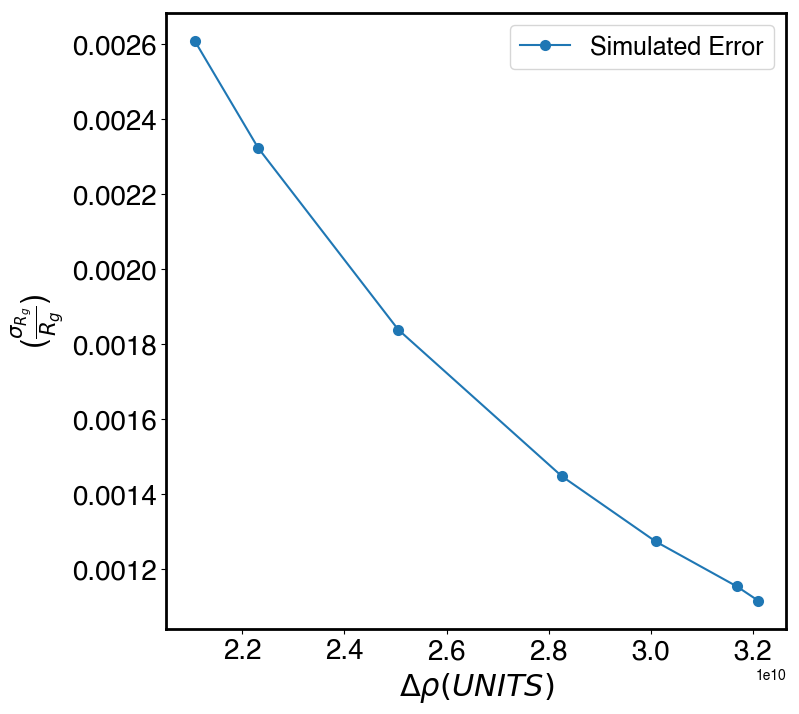
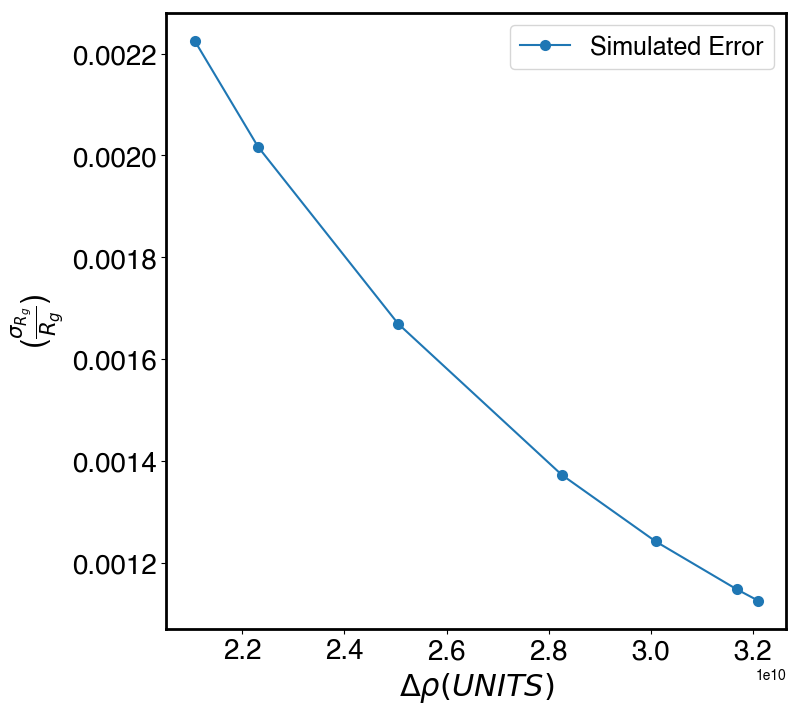
fixed issue with calc_errRg_contrast. It now updates sigma values appropriately for each iteration of the loop based on a given contrast value.

diff --git a/SAXSProf_ErrCalcs.py b/SAXSProf_ErrCalcs.py
@@ -94,6 +94,7 @@ class err_Calcs:
         Vectors must be of equal length.
         """
         if imin == [] and imax == [] and density == [] and pressure == []:
+            # Input general parameters #
             saxs1 = self.saxs1
             c = self.saxs1.c # use default conc.
             pp = self.saxs1.pp
@@ -101,9 +102,9 @@ class err_Calcs:
             t = self.saxs1.t # default exposure time
             pixel_size = self.saxs1.pixel_size
             q = self.saxs1.buf_model_q
-            sigma = self.saxs1.sigma
             density = [0.99707, 1.0015, 1.0184, 1.0379, 1.0719, 1.1010, 1.1142]
             pressure = [0, 10, 50, 100, 200, 300, 350]
+            # Calculate contrast term based on supplied densities #
             ps = []
             rho = []
             for i in range(len(density)):
@@ -111,7 +112,9 @@ class err_Calcs:
 
             for i in range(len(ps)):
                 rho.append((pp - ps[i]) * (2.818 * 10 ** -13))
-            cont = [] # for exporting contrast at the end
+
+            ## Now iterate over the error calculation for the SAXS curve at each contrast value
+            # This is the 'crucial' component of the function.
             errRg = []
             sig2_Rg_out = []
             if len(ps) == len(rho): # To make sure calculations went well.
@@ -129,11 +132,12 @@ class err_Calcs:
                     I_w_noise.append(t * pixel_size ** 2 * saxs1.with_noise(t, q, I))
                     I_w_noise = I_w_noise[0]
 
+                    # with_noise() should recalculate the sigma values
+                    # therefore, must call sigma for each iteration of the loop.
+                    sigma = saxs1.sigma
                     log_sigma = []
                     for i in range(len(sigma)):
                         log_sigma.append((np.abs(sigma[i]/I_w_noise[i])))
-                    # print('length of log sigma',len(log_sigma))
-
 
                     (inter, slope, sig2_inter, sig2_slope) = saxs1.lsqfity_with_sigmas(saxs1.buf_model_q[imin:imax] ** 2, np.log(I_w_noise[imin:imax]),
                                                                                np.array(log_sigma[imin:imax]))
